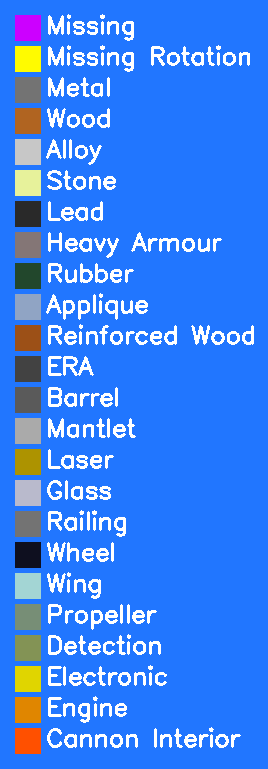
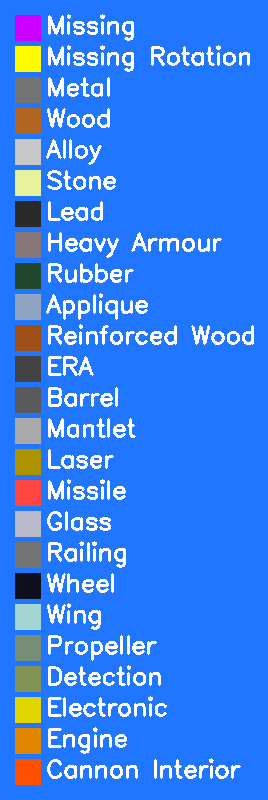
Simple Weapons added
Added simple weapons to firing animation.
Added "Missile" material.

diff --git a/bp_to_imgV2.py b/bp_to_imgV2.py
@@ -86,7 +86,7 @@ size_id_dict = {int(k): v for k, v in size_id_dict.items()}
 bp_gameversion = None
 
 # load font
-bahnschrift = ImageFont.truetype("bahnschrift.TTF", 14)
+bahnschrift = ImageFont.truetype("bahnschrift.ttf", 14)
 bahnschrift.set_variation_by_axes([300, 85])
 
 # Blueprint:
@@ -333,13 +333,29 @@ def __create_view_matrices(bp, use_player_colors=True, create_gif=True):
         if create_gif:
             blocks_that_go_bang = ["c94e1719-bcc7-4c6a-8563-505fad2f9db9",  # 16 pounder
                                    "58305289-16ea-43cf-9144-2f23b383da81",  # 32 pounder
-                                   "e1d1bcae-f5e4-42bb-9781-6dde51b8e390"  # 64 pounder
+                                   "e1d1bcae-f5e4-42bb-9781-6dde51b8e390",  # 64 pounder
+                                   "16b67fbc-25d5-4a35-a0df-4941e7abf6ef",  # Revolving Blast-Gun
+                                   "d3e8e14a-58e7-4bdd-b1b3-0f37e4723a73",  # Shard cannon
+                                   "7101e1cb-a501-49bd-8bbe-7a960881e72b",  # .50 AA Gun
+                                   "b92a4ce6-ea93-4c0c-97d7-494ea611caa9",  # 20mm AA gun
+                                   "d8c5639a-ff5f-448e-a761-c2f69fac661a",  # 40mm Quad AA Gun
+                                   "268d79bf-c266-48ed-b01b-76c8d4d31c92",  # 40mm Twin AA Gun
+                                   "3be0cab1-643b-4e3a-9f49-45995e4eb9fb",  # 40mm Octuple AA Gun
+                                   "2311e4db-a281-448f-ad53-0a6127573a96",  # 60mm Grenade Launcher
+                                   "742f063f-d0fe-4f41-8717-a2c75c38d5e0",  # 30mm Assault Cannon
+                                   "9b8657b9-c820-43a0-ad19-25ea45a100f1",  # 60mm Auto Cannon
+                                   "f9f36cb3-cbfd-446a-9313-40f8e31e6e89",  # 3.7" Gun
+                                   "1217043c-e786-4555-ba24-46cd1f458bf9",  # 3.7" Gun Shield
+                                   "0aa0fa2e-1a85-4493-9c4c-0a69c385395d",  # 130mm Casemate
+                                   "aa070f63-c454-4f95-82fd-d946a32a1b66",  # 150mm Casemate
+                                   "",  #
+                                   "",  #
                                    ]
             for cannon_guid in blocks_that_go_bang:
                 cannon, = np.nonzero(a_guid == cannon_guid)
                 if len(cannon) > 0:
-                    firing_animator.append(a_pos[cannon], a_dir[cannon],
-                                           size_id_dict[a_sizeid[cannon[0]]]["zp"] + 1, np.ones(len(cannon)))
+                    firing_animator.append(a_pos[cannon] + a_dir_tan[cannon] * size_id_dict[a_sizeid[cannon[0]]]["yp"],
+                                           a_dir[cannon], size_id_dict[a_sizeid[cannon[0]]]["zp"] + 1, np.ones(len(cannon)))
 
         # player colors
         if use_player_colors:
@@ -821,7 +837,7 @@ async def speed_test(fname):
 
 if __name__ == "__main__":
     # file
-    fname = "../example blueprints/examplePounderShip.blueprint"
+    fname = "../example blueprints/exampleAllWeapons.blueprint"
 
     main_img = np.zeros(0)
 
